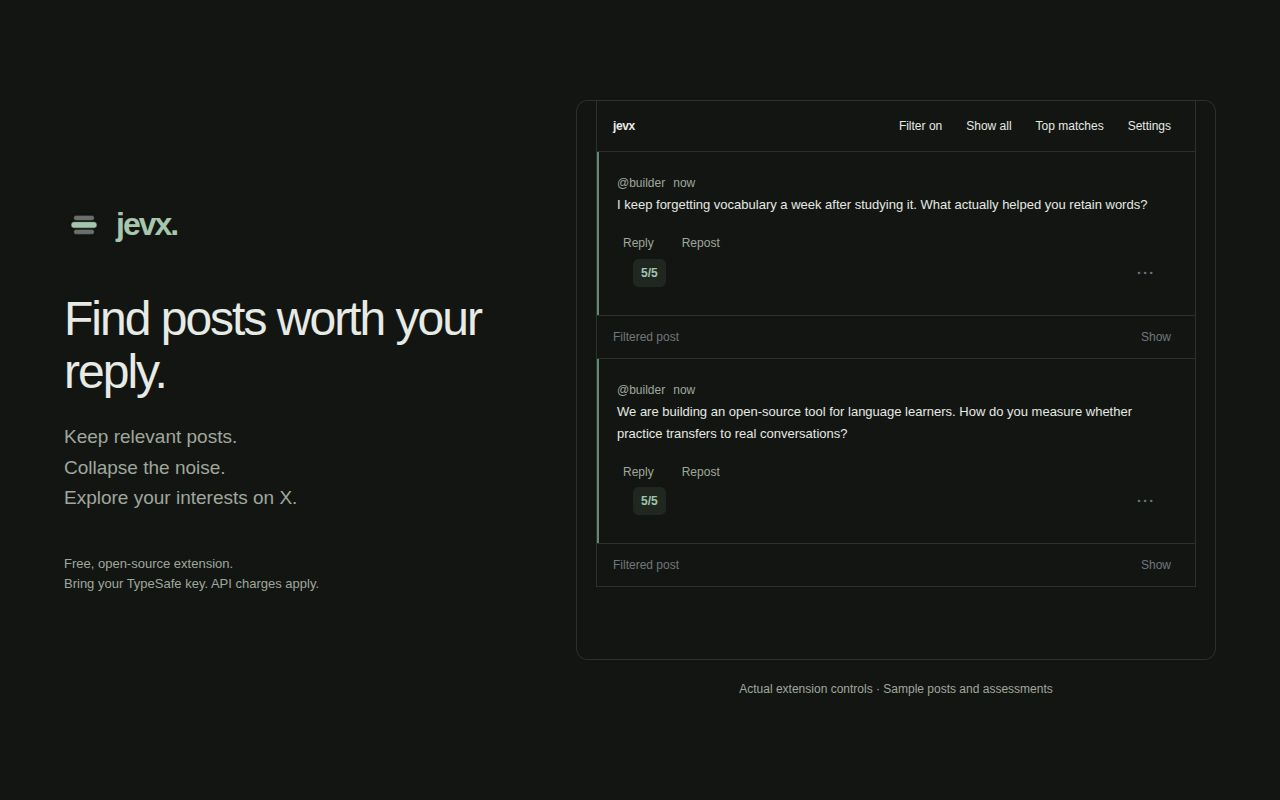
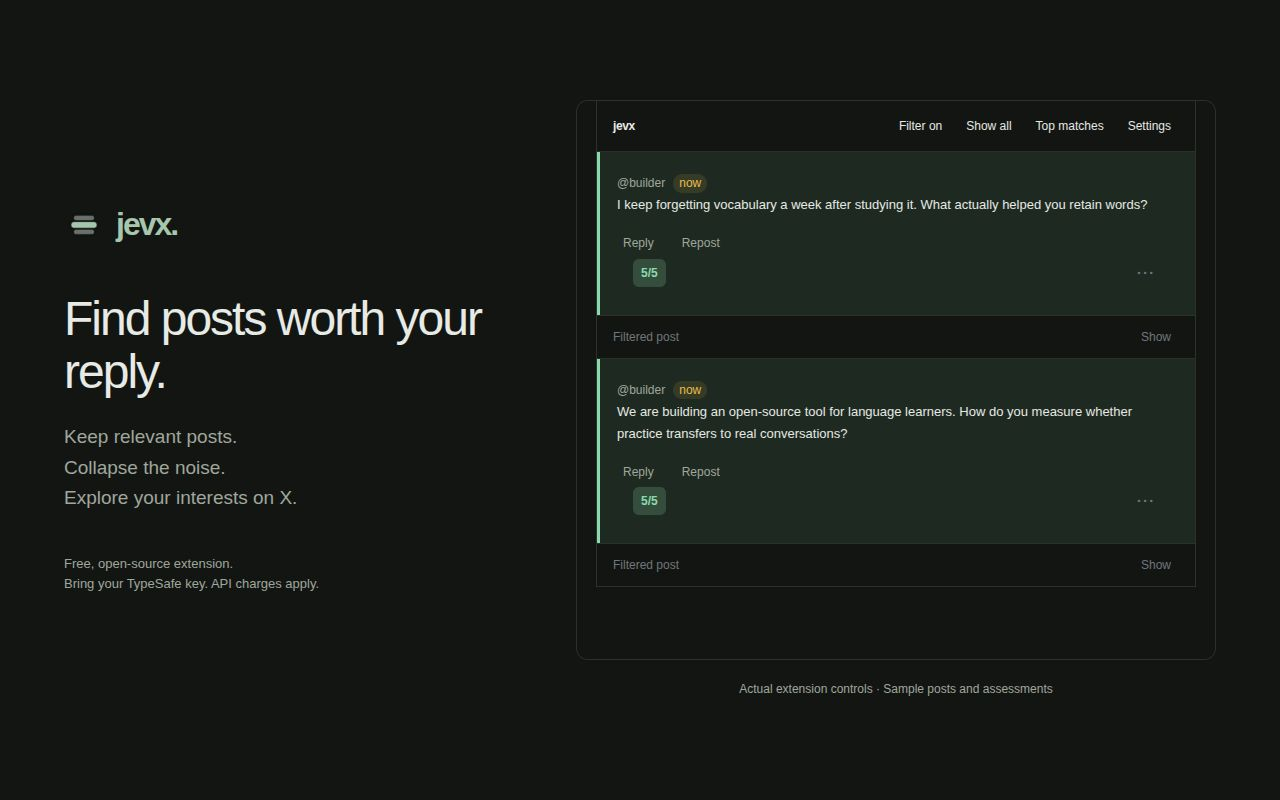
chore: prepare source and designs for public release

diff --git a/design/preview.ts b/design/preview.ts
@@ -3,7 +3,7 @@ import { startFeed } from '../lib/feed';
 import { startDraftScoring } from '../lib/draft-composer';
 import { mountDraftSettings } from '../lib/draft-settings-ui';
 import { defaultDraftSettings } from '../lib/draft-model';
-import { article, post, readyState } from './fixtures';
+import { article, post, readyState } from '../tests/fixtures';
 import '../assets/ui.css';
 import '../entrypoints/feed.content/style.css';
 import '../entrypoints/feed.content/draft.css';
@@ -28,6 +28,7 @@ const root = document.querySelector<HTMLElement>('#app')!;
 const draftState = { settings: defaultDraftSettings(), connected: true };
 if (view === 'draft' || view === 'reply') {
   root.style.cssText = 'max-width:600px;margin:64px auto;padding:32px;border:1px solid var(--line);border-radius:20px';
+  if (new URL(location.href).searchParams.has('embed')) { root.style.margin = '16px auto'; root.style.padding = '24px'; }
   root.innerHTML = `<div style="display:flex;align-items:center;justify-content:space-between;margin-bottom:32px"><h1>jevx<span class="brand-dot">.</span></h1><span class="muted">Composer preview · Sample scores</span></div>
     <div data-testid="quoteTweet" role="link" style="border-left:2px solid var(--line);padding:0 0 0 16px;margin-bottom:24px"><span class="muted">@builder</span><p data-testid="tweetText">We shipped a new vocabulary app. How do you know whether practice transfers to real conversations?</p></div>
     <div contenteditable="true" role="textbox" aria-label="Draft text" data-testid="tweetTextarea_0" style="min-height:140px;outline:none;font-size:19px;line-height:1.6">We tested recall a week after practice, using words in new sentences. Session streaks looked great; transfer was the real test. What are you measuring today?</div>
@@ -37,7 +38,7 @@ if (view === 'draft' || view === 'reply') {
     const row = document.createElement('div'); row.style.cssText = 'display:flex;flex-direction:row;align-items:center;gap:16px';
     const editor = root.querySelector<HTMLElement>('[contenteditable]')!;
     const submit = root.querySelector<HTMLElement>('[data-testid="tweetButton"]')!.parentElement!;
-    editor.textContent = 'Post your reply'; editor.style.cssText = 'flex:1;min-width:0;font-size:20px;line-height:1.5;color:var(--muted);outline:none';
+    editor.textContent = 'We test recall in new sentences a week later. What does your retention test measure?'; editor.style.cssText = 'flex:1;min-width:0;font-size:20px;line-height:1.5;color:var(--muted);outline:none';
     submit.style.marginTop = '0'; submit.querySelector('button')!.textContent = 'Reply';
     row.append(editor, submit); root.append(row);
   }
@@ -46,7 +47,7 @@ if (view === 'draft' || view === 'reply') {
     check: async draft => ({ scores: Object.fromEntries(draftState.settings.profiles.find(p => p.id === draft.profileId)!.axes.filter(a => a.enabled).map(a => [a.id, a.id === 'specificity' ? 3 : 4])) }),
     select: async (kind, id) => { draftState.settings.selected[kind] = id; },
     options: api.options,
-  }, document, () => 'https://x.com/compose/post');
+  }, document, () => view === 'reply' ? 'https://x.com/builder/status/1' : 'https://x.com/compose/post');
   window.addEventListener('pagehide', () => drafts.dispose(), { once: true });
 } else if (view === 'feed') {
   root.style.cssText = 'max-width:600px;margin:auto;padding:0;border-inline:1px solid var(--line)';

diff --git a/lib/draft-settings-ui.ts b/lib/draft-settings-ui.ts
@@ -8,7 +8,7 @@ export async function mountDraftSettings(root: HTMLElement, api: { state(): Prom
     <p class="hint">Score posts, replies, and quotes as you write. Scores measure fit to your criteria, not predicted views.</p>
     <form class="profile-form">
       <label class="consent"><input name="draftConsent" type="checkbox"><span>Assess my unpublished drafts.<small>Send draft text, available parent or quoted text, and my profile to TypeSafe after I stop typing. Uses my saved key. API charges can apply.</small></span></label>
-      <a class="text-link" href="privacy.html" target="_blank" rel="noreferrer">Privacy and data use ↗</a>
+      <a class="text-link" href="/privacy.html" target="_blank" rel="noreferrer">Privacy and data use ↗</a>
       <details class="draft-profile-editor"><summary>Profiles & scoring axes <span class="muted">Customize</span></summary>
         <div class="draft-profile-tools"><select aria-label="Profile to edit"></select><button type="button" data-copy>Duplicate</button><button type="button" data-remove>Remove</button></div>
         <label>Profile name<input name="profileName" required></label>

diff --git a/lib/ui.ts b/lib/ui.ts
@@ -128,7 +128,7 @@ export async function mountOptions(root: HTMLElement, api: UiApi) {
       </fieldset>
       <label>Concurrent Jev requests<input name="concurrency" type="number" min="1" step="1" required><small class="hint">Shared across feed and draft scoring in all tabs. Default: 20.</small></label>
       <label class="consent"><input type="checkbox" name="consent"><span>Use Jev to assess posts.<small>Send your profile, post text, quoted text, and author handles to TypeSafe for ranking. Requests use your saved API key. TypeSafe usage can incur charges.</small></span></label>
-      <a class="text-link" href="privacy.html" target="_blank" rel="noreferrer">Privacy and data use ↗</a>
+      <a class="text-link" href="/privacy.html" target="_blank" rel="noreferrer">Privacy and data use ↗</a>
       <button type="submit" class="primary">Save profile</button>
     </form>
     <section class="connection-section" aria-labelledby="connection-heading"><div class="section-title"><h3 id="connection-heading">TYPESAFE</h3><span id="connection-state" class="muted"></span></div>

diff --git a/design/store.html b/design/store.html
@@ -34,12 +34,18 @@
       <p class="note">Free, open-source extension.<br>Bring your TypeSafe key. API charges apply.</p>
     </div>
     <div class="preview">
-      <iframe title="jevx feed preview" src="/tests/preview.html?view=feed"></iframe>
+      <iframe title="jevx feed preview" src="/design/preview.html?view=feed"></iframe>
       <p class="caption">Actual extension controls · Sample posts and assessments</p>
     </div>
   </main>
   <script type="module">
     if (new URL(location.href).searchParams.has('promo')) document.body.className = 'promo';
+    if (new URL(location.href).searchParams.has('draft')) {
+      document.querySelector('h1').textContent = 'A clearer draft. A better reply.';
+      document.querySelector('.copy > p').innerHTML = 'Choose your goal.<br>See what to improve.<br>Keep your own voice.';
+      const frame = document.querySelector('iframe');
+      frame.src = '/design/preview.html?view=draft&embed'; frame.title = 'jevx draft preview';
+    }
   </script>
 </body>
 </html>

diff --git a/design/preview.html b/design/preview.html
@@ -1,0 +1,2 @@
+<!doctype html>
+<html lang="en"><head><meta charset="UTF-8"><meta name="viewport" content="width=device-width, initial-scale=1"><title>jevx · Design preview</title></head><body><main id="app"></main><script type="module" src="./preview.ts"></script></body></html>

diff --git a/README.md b/README.md
@@ -1,8 +1,12 @@
 # jevx
 
-A small, open-source extension for finding posts worth replying to on X.
+A small, open-source Chrome and Firefox extension for finding posts worth replying to on X and improving your drafts.
 
 Save searches. Tell Jev what interests you. Relevant posts stay expanded with a quiet highlight. Other posts collapse into a single row.
+
+![jevx feed with scored posts and collapsed rows](store/screenshot-1280x800.png)
+
+The extension and its design files are MIT licensed. AI features require your own TypeSafe key and can incur API charges. There is no jevx subscription or developer-operated backend.
 
 ## Install locally
 
@@ -37,15 +41,13 @@ Notifications pages are excluded, including their sub-tabs. jevx removes its con
 
 **Show** reveals a collapsed post. **Show all** reveals the current tab. **Filter off** pauses filtering across tabs. The **⋯** button opens post actions: find more from the author, search a related topic, or hide the post. Add a search in the popup if you want to save it.
 
-Relevant posts show a score from 1 to 5. Click the score for its reason and breakdown. **Top matches** ranks the loaded matches in the current tab without moving X's feed.
+Relevant posts show a score from 1 to 5. Higher scores have a stronger green accent and background tint. Timestamps under one hour old have a gold pill. Click the score for its reason and breakdown. **Top matches** ranks the loaded matches in the current tab without moving X's feed and provides the same post actions.
 
 Relevance has weight 3 and recency has weight 1. Both weights are editable in Settings. Recency falls from 5 to 1 across the freshness window, which starts at 60 minutes. Older posts retain a recency score of 1. Age does not hide a post. Ranking uses the weighted result before rounding the displayed score.
 
 Reposts use the original post's date. Quote posts use their own date and include available quoted text, even without a caption. Replies bypass Jev. Posts with no body or quoted text remain visible without a score.
 
-## Data and cost
-
-### Draft scoring
+## Draft scoring
 
 In Settings, enable **Assess my unpublished drafts** separately from feed assessment. With a connected TypeSafe key, a small panel appears below the post, reply, or quote editor. Choose Conversation, Virality, Credibility, or Connection. Each uses editable, unvalidated criteria. Duplicate a profile, add axes, or change weights in **Profiles & scoring axes**.
 
@@ -53,20 +55,26 @@ The panel waits one second after typing stops. All enabled axes are assessed tog
 
 Selected profiles are remembered separately for posts, replies, and quotes. Compatible axis results use a session cache. Changing weights does not require new AI judgments. Draft text is not stored by jevx. With draft consent enabled, unpublished text, available parent/quoted text, and your profile go to TypeSafe. Draft scoring is independent of the feed filter switch and skips Notifications and direct-message pages. The draft type can be corrected in the expanded panel when X's markup is ambiguous.
 
-Preview it with `/tests/preview.html?view=draft`. Preview scores are synthetic.
+![jevx draft scorer with an optimization profile and improvement cue](store/draft-1280x800.png)
+
+Preview it with `/design/preview.html?view=draft`. Preview scores are synthetic.
+
+## Data and cost
 
 | Data | Storage or destination |
 | --- | --- |
 | Profile, saved searches, filter preference, consent | This browser's local extension storage |
+| Draft scoring profiles, weights, selected goals, draft consent | This browser's local extension storage |
 | TypeSafe key | Extension-origin IndexedDB; persists across restarts until you disconnect or remove the extension |
 | Assessments | Session storage with a one-hour cache lifetime |
 | Show/Hide choices | Session storage; removed at browser restart |
 | Managed search tab IDs | Session storage |
 | Eligible post text, quoted text, author, profile | TypeSafe, only after you enable assessment |
+| Unpublished drafts, available parent/quoted text, profile, scoring criteria | TypeSafe, only after you enable draft scoring |
 
 The extension has no subscription, server, analytics, or X API dependency. TypeSafe charges for API use. Check [current pricing](https://docs.typesafe.ai/models). Your key never enters X's page scripts. Post text is not persisted by jevx.
 
-Assessments are shared across tabs. The cache includes the post content, profile, model, and criteria version. Profile edits invalidate previous matches. Weight changes recalculate scores from cached relevance without another Jev request. A service failure stops further requests until you pause and resume or update settings. Request failures remain visible. Posts marked **More context needed** collapse and can be revealed with **Show**.
+Assessments are shared across tabs. Cache keys hash the post content, profile, model, and criteria version. Profile edits invalidate previous matches. Weight changes recalculate scores from cached relevance without another Jev request. A feed service failure stops further feed requests until you pause and resume or update settings. Failed draft requests can retry after another edit. Request failures remain visible. Posts marked **More context needed** collapse and can be revealed with **Show**.
 
 **Concurrent Jev requests** in Settings defaults to 20. One shared pool bounds feed and draft requests across all tabs. Each feed request includes visibility, reason, and relevance; each draft request includes all missing enabled axes. Different posts use separate concurrent calls, following TypeSafe's [re-ranking pattern](https://docs.typesafe.ai/cookbooks/rerank_typesafe). Questions within each call run in parallel, as described in its [multiple-question guide](https://docs.typesafe.ai/patterns/fan-out). Identical pending assessments share a result. This limit is a product setting, not a claim about your TypeSafe account's rate limit.
 
@@ -86,10 +94,12 @@ npm run zip:firefox
 For a local interface preview with synthetic posts and mocked assessments:
 
 ```sh
-npx vite --host 127.0.0.1
+npm run preview
 ```
 
-Open `/tests/preview.html`, `/tests/preview.html?view=options`, or `/tests/preview.html?view=feed`. Preview data does not persist. Preview files are not included in extension builds.
+Open `/design/preview.html`. See [all design previews and editable sources](design/README.md), including settings, the feed, composers, and store artwork. Preview data does not persist. Preview files are not included in extension builds.
+
+Read [CONTRIBUTING.md](CONTRIBUTING.md) before making changes. Use [SECURITY.md](SECURITY.md) for sensitive reports.
 
 ## Current limits
 
@@ -101,7 +111,7 @@ Open `/tests/preview.html`, `/tests/preview.html?view=options`, or `/tests/previ
 - The API contract, background flow, and UI use automated tests with mocked responses. Real Jev relevance quality requires a user key and review of actual matches.
 - The request timeout, cache lifetime, and initial visual tokens are explicitly unvalidated settings. Adjust them from measured behavior.
 
-MIT licensed.
+The [MIT license](LICENSE) covers the project's code and supplied design assets. Bundled runtime notices are in [THIRD_PARTY_NOTICES.txt](public/THIRD_PARTY_NOTICES.txt). jevx is not affiliated with X or TypeSafe.
 
 ## Release
 

diff --git a/design/README.md b/design/README.md
@@ -1,0 +1,58 @@
+# Design files
+
+The interface, logo, and promotional assets are included with the source code under the repository's [MIT license](../LICENSE). Third-party names and services are not part of jevx's branding.
+
+## Open the previews
+
+```sh
+npm ci
+npm run preview
+```
+
+Open the address printed by Vite, followed by one of these paths:
+
+| Surface | Path |
+| --- | --- |
+| Popup | `/design/preview.html` |
+| Settings and profile editor | `/design/preview.html?view=options` |
+| Feed and Top matches | `/design/preview.html?view=feed` |
+| Draft scorer | `/design/preview.html?view=draft` |
+| Inline reply layout | `/design/preview.html?view=reply` |
+| Store screenshot | `/design/store.html` |
+| Draft store screenshot | `/design/store.html?draft` |
+| Promotional tile | `/design/store.html?promo` |
+
+Previews use the actual UI components with synthetic posts and mock scores. They need no accounts or API keys and make no TypeSafe requests. Settings changes stay in memory and reset on reload.
+
+## Editable sources
+
+| File | Purpose |
+| --- | --- |
+| `assets/ui.css` | Popup and settings layout, light/dark colors, spacing |
+| `entrypoints/feed.content/style.css` | Post highlights, gold time pills, menus, ranking |
+| `entrypoints/feed.content/draft.css` | Composer panel, score breakdown, goal selector |
+| `lib/ui.ts`, `lib/draft-settings-ui.ts` | Settings and popup markup |
+| `lib/post-actions.ts`, `lib/draft-composer.ts` | Post controls and draft panel markup |
+| `design/preview.ts` | Synthetic fixtures and preview layouts |
+| `design/store.html` | Editable store-art composition |
+| `assets/logo.png` | Full-size raster logo source |
+| `public/icon/*.png` | Runtime icon exports |
+| `store/*.png` | Store screenshots and promotional tile |
+
+The logo was generated with Imagegen. Its prompts are in `store/logo-prompts.txt`. The supplied source is raster, not an editable vector.
+
+The extension follows the system's light/dark preference. Preview both themes using browser appearance controls. Green intensity follows the displayed 1–5 post score. Gold marks post timestamps under one hour old. Draft details expand on demand. Visual tokens remain unvalidated until tested with users.
+
+## Export
+
+Icon generation requires ImageMagick in addition to Node.js:
+
+```sh
+for size in 16 32 48 128; do
+  convert assets/logo.png -resize "${size}x${size}" -strip "public/icon/${size}.png"
+done
+```
+
+For store screenshots, capture the rendered artboard in `design/store.html` at its native 1280×800 size. The `promo` artboard is 440×280. Crop to the artboard without stretching it. Keep the sample-content label visible. Do not use real user drafts or account details in public artwork.
+
+The design previews are not shipped as extension pages. Normal extension builds use the checked-in icons and do not need ImageMagick.

diff --git a/CONTRIBUTING.md b/CONTRIBUTING.md
@@ -1,0 +1,23 @@
+# Contributing
+
+Use Node.js 24. Run `npm ci`, then `npm run preview` to work on the interface without X or a TypeSafe key. See [design previews](design/README.md).
+
+Use `npm run dev` or `npm run dev:firefox` to test the extension in a browser. Use synthetic posts and mocked responses in automated tests. Never commit API keys, browser profiles, private drafts, or screenshots from a signed-in account.
+
+Before submitting a change, run:
+
+```sh
+npm run release
+```
+
+This runs type checking, tests, both package builds, Firefox validation, and release checks. API tests do not use paid requests.
+
+Keep changes focused. Add a regression test for behavior changes. For UI changes, inspect light and dark themes, narrow layouts, and keyboard focus. Include a screenshot with synthetic content when it helps explain the change.
+
+X reuses post elements and changes routes without reloading. Preserve its editor, focus, and native controls. Results must belong to the current post or draft. Do not apply stale results after navigation, settings changes, or edits.
+
+Keep model scores on the integer 1–5 scale. Mark untested heuristics and visual defaults as unvalidated. Changes to transmitted data need matching consent and privacy-policy updates.
+
+Use short semantic commit messages, such as `fix: preserve reply focus`. Explain the problem, the resulting behavior, and the checks in the pull request.
+
+Code and design contributions use the repository's MIT license. Include license notices for any third-party material you add.

diff --git a/docs/STORE.md b/docs/STORE.md
@@ -30,7 +30,7 @@ Independent project. Not affiliated with or endorsed by X or TypeSafe.
 
 ## Chrome privacy fields
 
-Single purpose: Help users find relevant X posts to reply to by filtering and ranking loaded posts against their profile.
+Single purpose: Help users find relevant conversations on X and improve their contributions through profile-based post filtering and draft scoring.
 
 Permission explanations:
 
@@ -76,7 +76,7 @@ X and TypeSafe can require accounts. The publisher must provide any review acces
 - [ ] Confirm publisher account details and store declarations.
 - [ ] Upload `.output/jevx-0.1.0-chrome.zip` to Chrome.
 - [ ] Upload `.output/jevx-0.1.0-firefox.zip` and `.output/jevx-0.1.0-sources.zip` to Firefox.
-- [ ] Use `store/screenshot-1280x800.png`, `store/promo-440x280.png`, and `public/icon/128.png` as listing assets.
+- [ ] Use `store/screenshot-1280x800.png`, `store/draft-1280x800.png`, `store/promo-440x280.png`, and `public/icon/128.png` as listing assets.
 
 ## Requirements checked
 

diff --git a/SECURITY.md b/SECURITY.md
@@ -1,0 +1,9 @@
+# Security reports
+
+Do not post keys, private drafts, browser storage, or exploit details in a public issue.
+
+Use the repository host's private vulnerability-reporting feature when available. Otherwise, contact the maintainer through the profile linked from the repository and request a private channel before sending details.
+
+Include the affected version, browser, minimal reproduction steps, and expected impact. Use a test account and synthetic data. If a key was exposed, revoke it through TypeSafe.
+
+Fixes target the latest release. The extension stores a user-supplied TypeSafe key in extension-owned IndexedDB. It does not encrypt the key itself. Feed and draft assessment have separate consent controls. Unpublished drafts can leave the device only after draft scoring is enabled.
